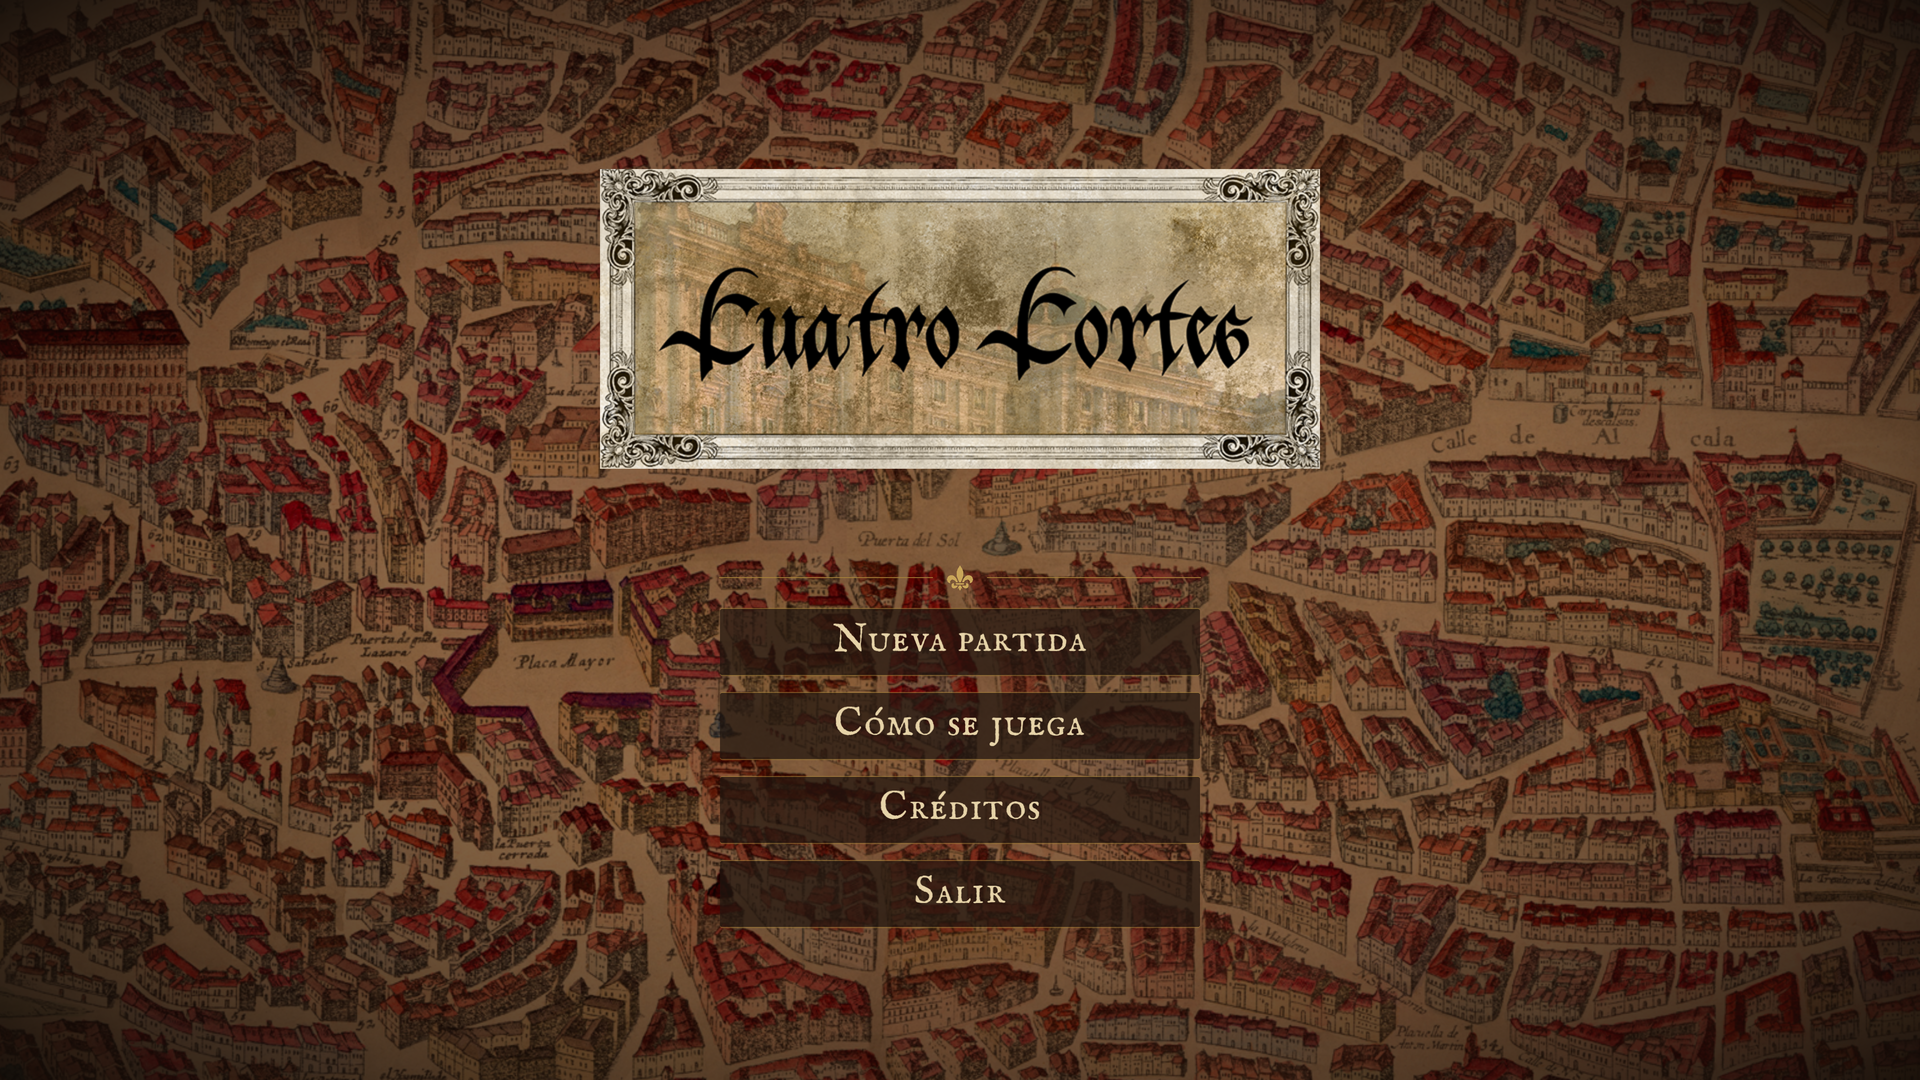
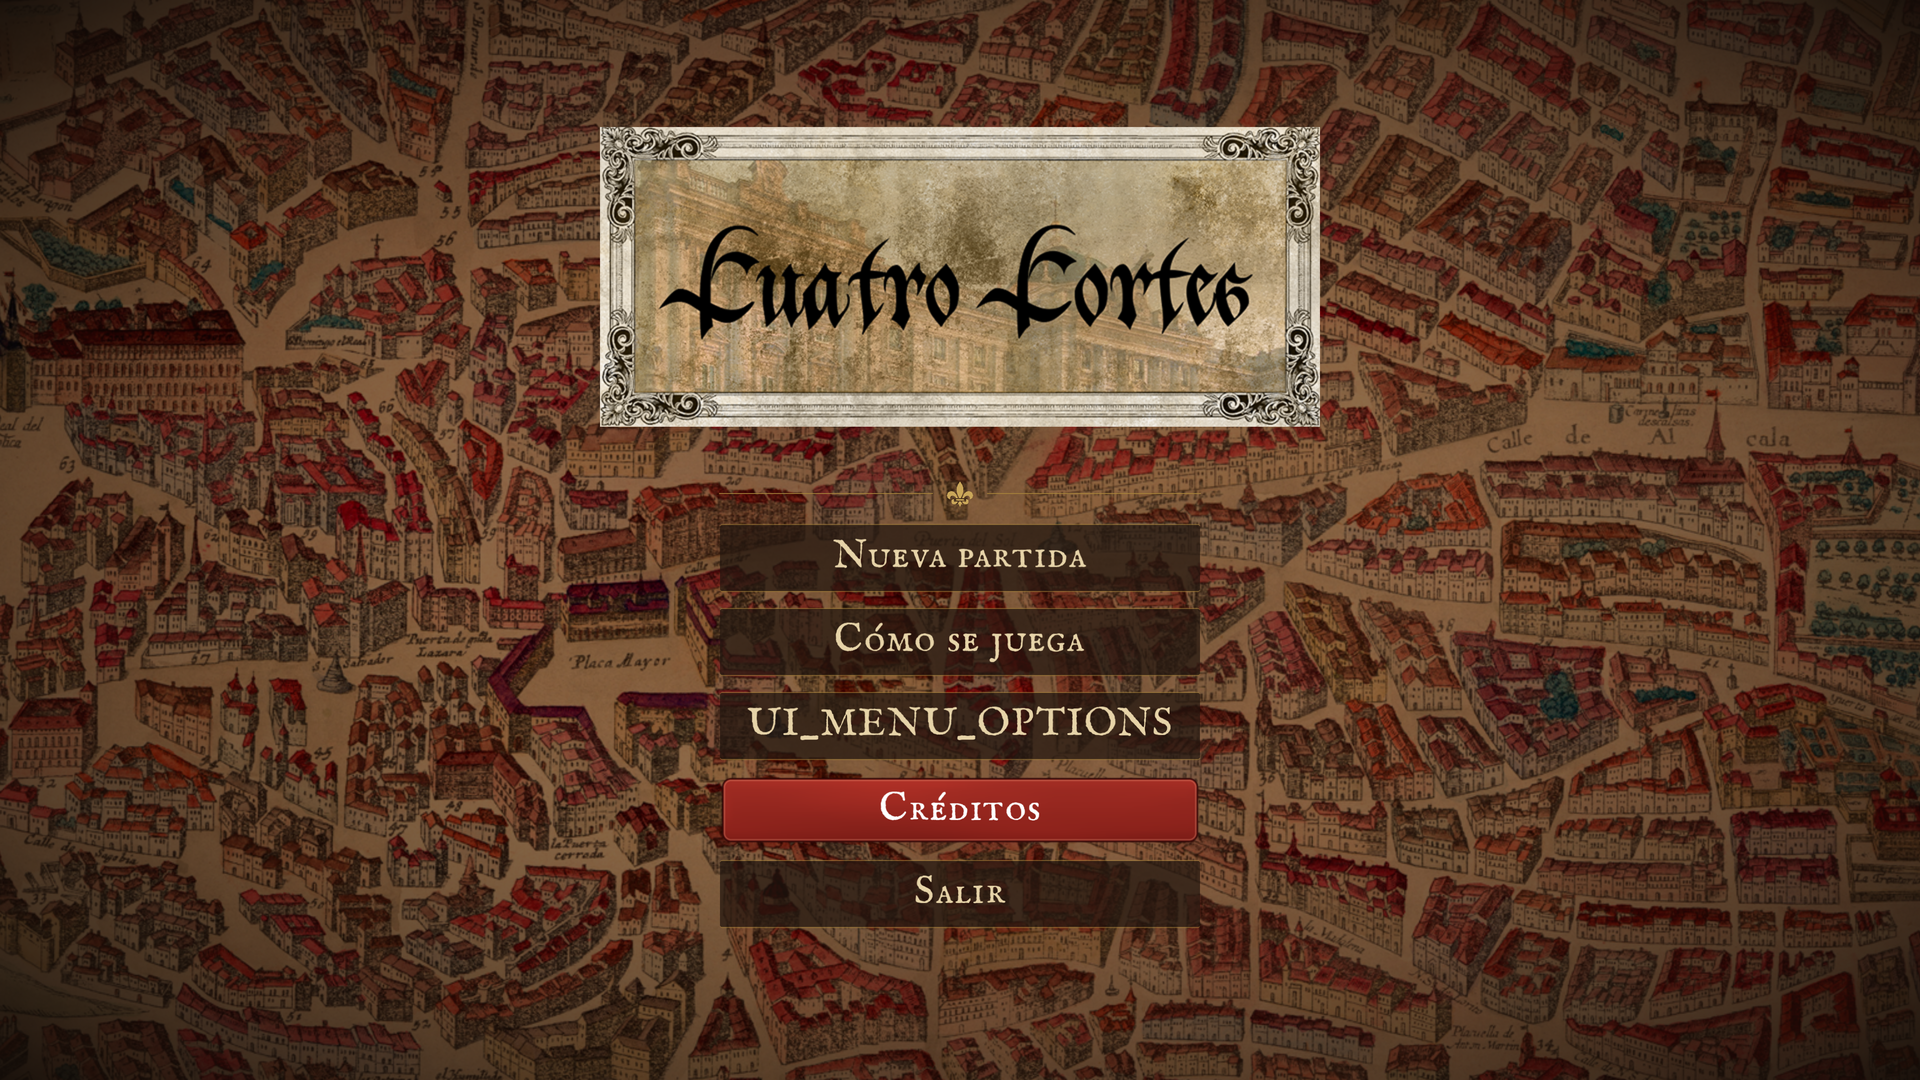
UI: pantalla de Opciones con selector de idioma (Español/English)
- Nuevo botón UI_MENU_OPTIONS en el menú y panel de pergamino OpcionesCanvas
- Al elegir idioma: TranslationServer.set_locale + user://settings.cfg [settings] locale
- Variación de tema BotonOpcion (tinta / lacre al elegir)
- Pergamino de carta a 1024 px (sin límite de rendimiento web)

diff --git a/tools/ui_textures.py b/tools/ui_textures.py
@@ -209,7 +209,7 @@ def main():
     os.makedirs(OUT, exist_ok=True)
     o = lambda n: os.path.join(OUT, n)
     # Carta grande (ventanas de misión, créditos, tutorial, edificio)
-    parchment_panel(o("pergamino_carta.png"), 768, 768, 4, 9, 60, 28)
+    parchment_panel(o("pergamino_carta.png"), 1024, 1024, 4, 9, 64, 28)
     # Cartela pequeña (fecha, fichas, mensajes cortos)
     parchment_panel(o("pergamino_cartela.png"), 256, 128, 2, 4, 22, 9, double=False, corners=False, ox=300, oy=200)
     # Ficha sin marco (filas de propiedades)
